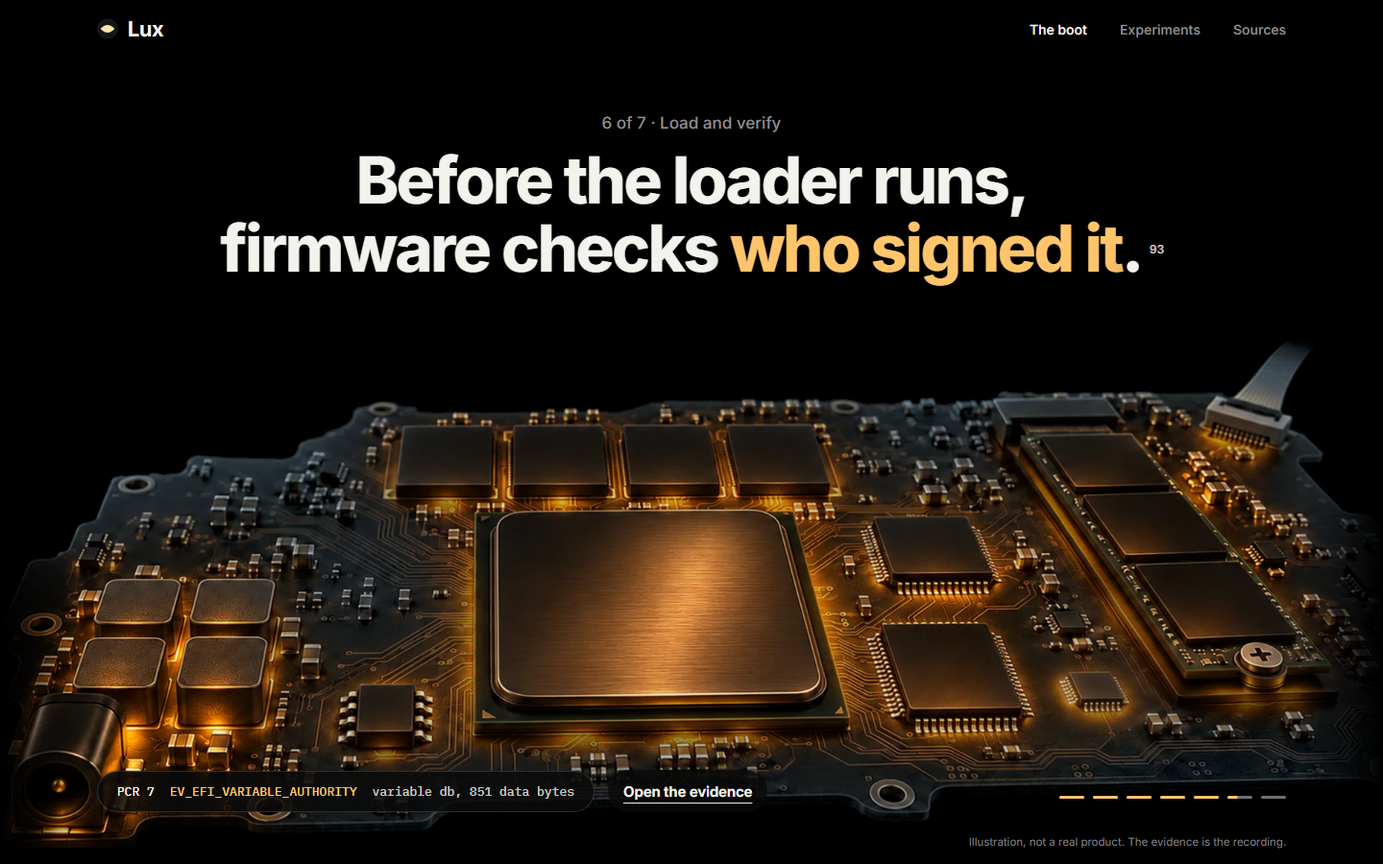
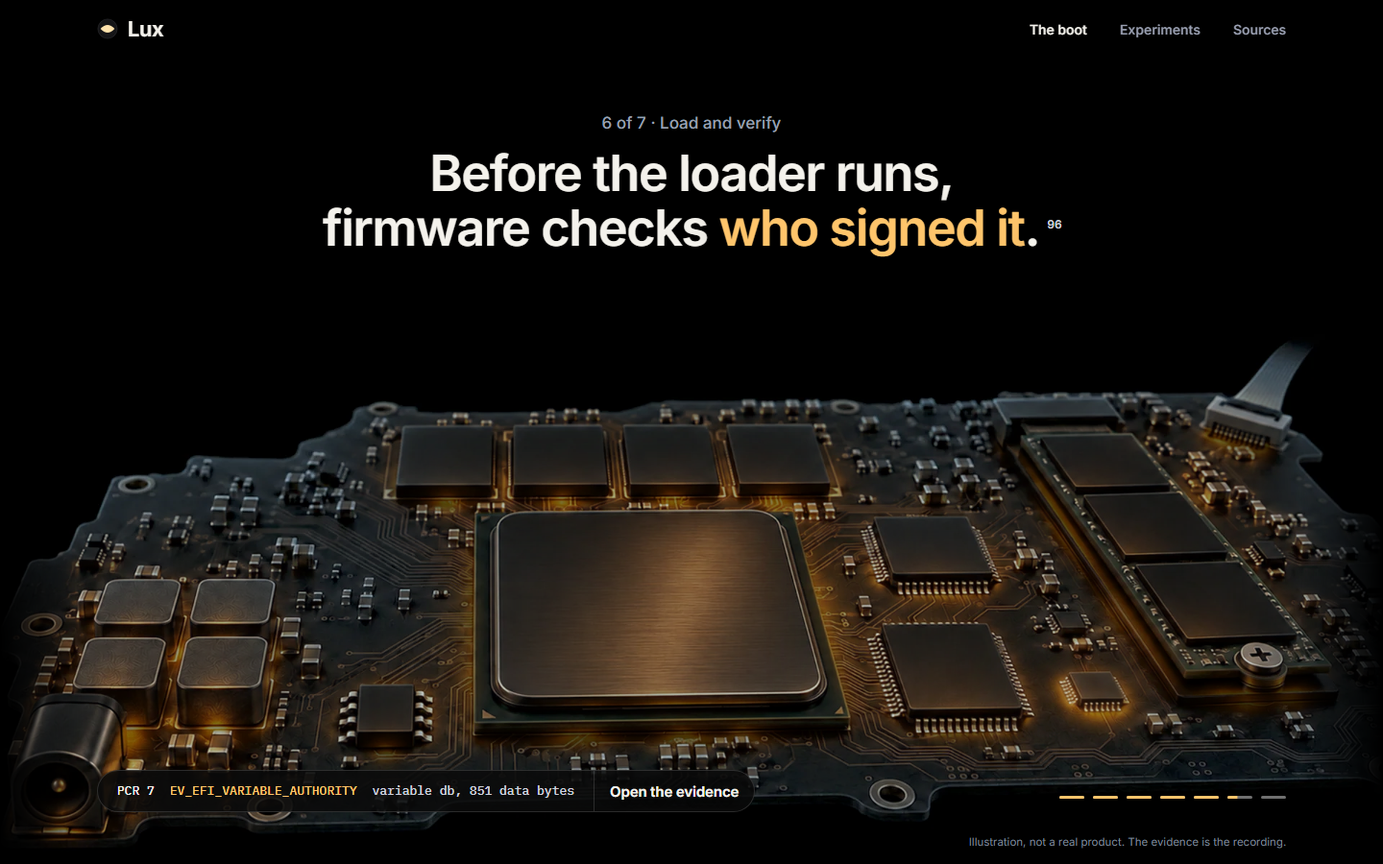
docs: bring the test counts, the verification record and the three screenshots in line with the calmer type, the rationed light, the new ending and the values read from the raw event log

diff --git a/docs/VERIFICATION.md b/docs/VERIFICATION.md
@@ -58,21 +58,21 @@ The untested parts of rows 1, 2, 5, 7 and 8 are carried into the limits of the R
 |---|---|---|
 | **Recorder: unit tests, tests on fixtures of two real boots, and whole runs through a fake machine** | The rules the question depends on are pure functions over bytes and documents, so most faults can be caught where one function is wrong, with no virtual machine | 268 |
 | **Recorder: the content check's own tests** | A check that cannot fail proves nothing, so each rule is broken once on small content | 48 |
-| **Recorder: tests of the committed evidence** (recordings, comparisons, scores, predictions) | The published files, not only the code, must still follow from each other | 43 |
+| **Recorder: tests of the committed evidence** (recordings, comparisons, scores, predictions) | The published files, not only the code, must still follow from each other | 48 |
 | **Recorder: integration with real `git`** | The prediction gate sends real git commands; a fake only proves the answers | 3 |
 | **Recorder: integration with a real virtual machine** | Only a real boot shows that a normal run repeats on this machine | 6, skipped unless `LUX_VM_TESTS=1` |
-| **Site: unit tests of the model** (steps, experiment state, addresses, panel keys, the mark) | Complete state per step and the state of an experiment are plain data, testable without drawing anything | 88 |
+| **Site: unit tests of the model** (steps, experiment state, addresses, panel keys, the mark) | Complete state per step and the state of an experiment are plain data, testable without drawing anything | 90 |
 | **Site: the content and the recordings as the site loads them** | Guards the site's own reading of the files | 45 |
 | **Site: pages rendered to HTML, with no browser**, and the stylesheet read as text | Proves that a page shows what the content and the files hold, and no more | 198 |
 | **Browser-level, automated** | None. Motion, layout and focus need a real window; they were checked by a scripted drive and by eye, outside the test suite | 0 |
 
-Recorder total 368 (25 in `test_capture.py`, 48 in `test_check_content.py`, 28 in `test_committed_recordings.py`, 41 in `test_compare_prediction.py`, 65 in `test_counted_set.py`, 32 in `test_eventlog_gate.py`, 6 in `test_integration_vm.py`, 65 in `test_session_runner.py`, 50 in `test_staging.py`, 8 in `test_story_and_repository.py`). The split of the first three rows is by test class: `test_check_content.py` is the second row; `test_committed_recordings.py` and the classes `CommittedPredictions` and `TwoEntryNormalRuns` of `test_counted_set.py` are the third. Site total 331 in nine files.
+Recorder total 373 (25 in `test_capture.py`, 48 in `test_check_content.py`, 28 in `test_committed_recordings.py`, 41 in `test_compare_prediction.py`, 65 in `test_counted_set.py`, 32 in `test_eventlog_gate.py`, 6 in `test_integration_vm.py`, 5 in `test_recorded_bytes.py`, 65 in `test_session_runner.py`, 50 in `test_staging.py`, 8 in `test_story_and_repository.py`). The split of the first three rows is by test class: `test_check_content.py` is the second row; `test_committed_recordings.py`, `test_recorded_bytes.py` and the classes `CommittedPredictions` and `TwoEntryNormalRuns` of `test_counted_set.py` are the third. Site total 333 in nine files.
 
 Coverage was not measured as a number. The mutation checks do the work a coverage figure cannot: nine rules were broken on purpose on the final code, seven in the recorder, one in the content check and one in the site, and each break failed at least two tests (`MUTATION_CHECKS.md`).
 
-### Last results
+### Results at the commit that added this file
 
-Run on the commit that adds this file, on one machine: Windows 11 with Python 3.12.10 and Node.js 24.22.0 (npm 11.19.1); Ubuntu 24.04 under WSL 2 with Python 3.12.3, QEMU 8.2.2, OVMF 2024.02, swtpm 0.7.3.
+Run on that commit, on one machine: Windows 11 with Python 3.12.10 and Node.js 24.22.0 (npm 11.19.1); Ubuntu 24.04 under WSL 2 with Python 3.12.3, QEMU 8.2.2, OVMF 2024.02, swtpm 0.7.3.
 
 | Check | Command | Summary line |
 |---|---|---|
@@ -84,7 +84,21 @@ Run on the commit that adds this file, on one machine: Windows 11 with Python 3.
 | Site build | `npm run build` | type check passed, `built in` under one second, one warning: a chunk larger than 500 kB |
 | Site format | `npm run format:check` | `All matched files use Prettier code style!` |
 
-The run with the virtual machine boots the plain normal run twice and the two-entry normal run once, and took about two minutes for the whole suite. No counted experiment and no pilot was booted for this document. The same commands were run again after the last change to the documents and gave the same summary lines, apart from the times.
+The run with the virtual machine boots the plain normal run twice and the two-entry normal run once, and took about two minutes for the whole suite. No counted experiment and no pilot was booted for this document. The same commands were run again after the last change to the documents of that day and gave the same summary lines, apart from the times. The counts in this table are those of that commit: five recorder tests, two site tests and three claims were added afterwards.
+
+### Last results
+
+Run after the last change to the site and the content (section 9), on the same machine, on Windows only:
+
+| Check | Command | Summary line |
+|---|---|---|
+| Recorder unit tests, Windows | `python -m unittest discover -s recorder/tests -t .` | `Ran 373 tests in 26.215s`, `OK (skipped=6)` |
+| Content check | `python scripts/check_content.py` | `content check: 5 files, 28 screens, 357 claims, 85 claims uefi-required, 28 claims uefi-platform, 21 claims tcg-unread, 38 claims this-firmware, 170 claims recording, 15 claims general, 14 recordings, 59 glossary entries`, `content check: passed, no problems` |
+| Site tests | `npm test` | `Test Files  9 passed (9)`, `Tests  333 passed (333)` |
+| Site build | `npm run build` | type check passed, one script of 939.01 kB (gzip 186.12 kB), `built in` under one second, one warning: a chunk larger than 500 kB |
+| Site format | `npm run format:check` | `All matched files use Prettier code style!` |
+
+**Not repeated after that change:** the recorder's unit tests under WSL and the suite with the virtual machine. The five tests added since read committed files only and boot nothing, so the README's expected `Ran 373 tests` for the suite with the virtual machine is the same test discovery with the six booting tests included; it was not run. The fresh-clone runs (`FRESH_CLONE_RUN.md`) and the mutation checks (`MUTATION_CHECKS.md`) were made before that change and were not repeated; each file states the counts of its own commit.
 
 ## 4. What was looked at, and what was only checked by script
 
@@ -92,6 +106,7 @@ The run with the virtual machine boots the plain normal run twice and the two-en
 |---|---|---|
 | All 22 steps of the story, the experiments and sources pages section by section, the strip of seven stops, the still page, and six evidence panels, at 1440 x 900; the steps, the pages and the strip also at 390 x 844 | Screenshots of the running site in a headless Chromium-based browser, read one by one. The phone width was taken through a frame of that width | **By eye**, on screenshots. Three of them are in `docs/images/` |
 | The same 22 steps, both pages from top to bottom, and the evidence panel of every step, in true windows of 375 x 812 and 430 x 932; the navigation alone at twelve widths from 280 to 761 px; twelve steps at 375 x 667 | A headless Chromium-based browser driven through its debugging port, with the window size set there and no frame. The script also measured each page for content wider than the window and found none | **By eye**, on screenshots, and by measurement. The script and the screenshots are not in the repository |
+| After the last change to the look (section 9): all 22 steps, the first screen of the experiments and sources pages and of the still page at 1440 x 900; steps 0, 12 and 21 in a true window of 390 x 844; the last step at 1180 x 820; the experiment screen of the experiments page | Screenshots of the running site in a headless Chromium-based browser, read one by one; the narrow and the 1180 x 820 windows through the debugging port, which also measured each page for content wider than the window and found none | **By eye**, on screenshots. Three of them replace the pictures in `docs/images/` |
 | Brightness of the machine before power | Mean luminance of regions of the screenshots and of the pictures, printed by `site/tools/make_assets.py` and recorded in `site/ASSETS.md` | By script, after a judgement by eye that the first version was too dark |
 | Scrolling: Space and Shift with Space, Page Down and Page Up through all 22 steps, a jump to `#step-12`, the strip after the last step, reduced motion giving the still page | The running site driven in real time through the browser's debugging port | **By script only** |
 | The evidence panel: Enter and Space open it, Tab stays inside it from a control and from the claims heading, Escape closes it, focus returns to the opener, the page does not move | The same scripted drive | **By script only** |
@@ -136,12 +151,14 @@ These were found by review, by a test or by driving the site. None was planted. 
 | 17 | "Continue in Nox" was a link that led nowhere | Review | The label is a link only when the content holds an `https://` address, and the content check refuses anything else; the address is now set | A20 |
 | 18 | A prediction's panel showed "Written 2026-11-15" beside a run recorded on 2026-11-14 (UTC), which reads as if the run came first. The prediction's date is a local calendar date, eight hours ahead of UTC | A second check of the results | The panel says that the date is a local one and names the commit the run was scored under; `RESULTS.md` puts every time on one clock | `Pages.test.tsx`, "says that a prediction's date is a local one, and names the commit it was scored under" |
 | 19 | The two headline numbers stood on the experiments page with their caveat one press away | Review of the page against the README | The sentence that the rows are not independent stands directly under the numbers, from the content | A16 |
+| 20 | The larger laptop made for the last screen was also drawn on the experiment screen and the screen before the last, where the light under its keys is not turned down. On the experiment screen its lid sat 11 px under the pilot label and its base ran 9 px into a two-line evidence line. In a window of about 1180 x 820 the larger laptop also touched a two-line evidence line on the last screen | Review of screenshots | The laptop is enlarged on the last screen only, and only in a window at least three wide to two high and 800 px high (commit `2ebfe4b`) | No test: a judgement of the eye. Screenshots of steps 15, 20 and 21 at 1440 x 900 and of step 21 at 1180 x 820 were read after the fix |
+| 21 | When stop 5 began to state the stored boot order from the raw log (0000 first), the limit "why option 0000 was not started" was dropped, although the log still does not show why the console names 0001. The same stop said "the recording shows" bytes that only the raw log holds | Review of the facts against the raw log | The limit is stated again in the form the log supports, and the sentence names the raw event log (commit `cf1fc46`) | Read by hand. `test_recorded_bytes.py` guards the byte values, not the wording of a limit |
 
 ### Open, known, not fixed
 
 | # | What | Why it is open |
 |---|---|---|
-| O1 | The site is one script of 936 kB, and it grows with every recording | Splitting it by page means making the one synchronous door to the recordings asynchronous, a change of structure. Left with its measurement |
+| O1 | The site is one script of 939 kB, and it grows with every recording | Splitting it by page means making the one synchronous door to the recordings asynchronous, a change of structure. Left with its measurement |
 | O2 | A few status sentences in `content/experiments.json` repeat what the files show (for example the status of a counted card) | They are true and checked by reading. Nothing fails if one goes stale |
 | O3 | Process cleanup when QEMU is killed from outside is not covered by a unit test | It needs real processes. The integration test and `scripts/check-clean.sh` cover it |
 | O4 | `recorder/pe.py` names Microsoft's Authenticode format document as its method reference, while the site lists that document as not read | The digest is confirmed against what the firmware measured, and no claim on the site cites the document. The README says both |
@@ -208,3 +225,33 @@ What the three runs together still do not show:
 - **Not the hosted workflow.**
 
 An earlier clone at commit `dc52dbe` ran only the test commands on Windows, with the installed packages copied from the working tree. The three runs above replace it.
+
+## 9. The last change to the look and to stops 4 to 6
+
+Made on 2026-11-15 in nine commits, `5cf4d0a` to `cf1fc46`, after every run and check described above. No experiment was run again, and no recording, prediction or score was touched.
+
+**What changed in the content.** Stops 4, 5 and 6 state values that the summary in `recording.json` does not hold and the raw event log beside it does: the `SecureBoot` variable is one byte, `01`; `BootOrder` is `00 00 01 00`; the value of `Boot0000` begins `09 01 00 00` and carries the text `UiApp`; the value of `Boot0001` begins `01 00 00 00` and carries the disk's name; and the 879 bytes of the `db` variable are 28 bytes followed, byte for byte, by the 851 bytes of the key record. `recorder/tests/test_recorded_bytes.py` (5 tests) reads each value from `recordings/normal-1/eventlog.bin` with the recorder's own parser and compares it with the sentence in the content. No sentence was added about what a specification requires, what the 28 bytes are, or why the console names option 0001 when the stored order lists 0000 first; stop 5 lists that last point as not shown.
+
+**What changed in the look.**
+
+| Change | Where |
+|---|---|
+| A step's statement is at most 52 px at weight 600 (was 68 px at 750), the title at most 92 px at weight 600; the three greys carry a cool tint | `site/src/styles/lux.css` |
+| A lit part that a board step is not about rests at half its light, so the part the step is about is the warm point. Once every part is lit (steps 18 and 19) nothing rests | `layersAt` in `site/src/model/scene.ts`, two tests in `scene.test.ts` |
+| On the last screen, in a window at least 800 px high and three wide to two high, the laptop is drawn at 660 x 495 at 1440 x 900 (was 535 x 401); as its screen lights, a shade from the hinge down turns down the light under the keys; "Continue in Nox" is a filled button | `lux.css`, one attribute in `components/Stage.tsx` |
+| A step's statement arrives sooner; the rail and the foot no longer fade out at each step change | `lux.css` |
+| The opening's laptop stands lower under the navigation | `lux.css` |
+| In a window wider than 760 px the evidence line and "Open the evidence" form one capsule | `lux.css` |
+
+**Checked.** The checks of section 3, "Last results". The site's test that nothing but `transform` and `opacity` moves still passes, and no existing test was edited. The screenshots of section 4, first row. During the change, steps 0, 2, 6, 12, 15, 19, 20 and 21 were also read at 1280 x 720 after each commit; in a review after it, the last step at 1366 x 768 and 1920 x 1080.
+
+**Not verified, or known and left.**
+
+- **Motion was not seen by eye.** That the statement is readable sooner (about 0.6 s after a step change, before about 1.15 s) was measured by reading the computed opacity at sampled times in a headless browser. Frame rate was not measured. A person has still not scrolled the story by hand (section 4).
+- **For about 0.4 s after a step change** the evidence line and the control still seen are those of the step being left, and that control does not respond; the control of the new step is in place under it. Keyboard reach and the return of focus were not driven again in a browser; the panel's code and its tests are unchanged.
+- **Under 800 px of height the last screen is calmer but not larger**: at 1280 x 720 its laptop is 428 x 321, smaller than the opening's. The same holds in a window narrower than three to two.
+- **On steps 6, 7, 10, 12 and 13 the part the step is about is the small security chip**, so the warm point is small and the board reads as evenly dim. Steps 18 and 19 are at full light by decision, so they have no single warm point.
+- **The shade also darkens the metal deck** of the laptop on the last screen. Whether that reads as too dark is a judgement nobody but the builder has made.
+- **The section titles of the experiments and sources pages and the title of the evidence panel** keep their heavier weight; only the statements changed.
+- **One claim at stop 5** names the first four bytes of a boot option "attributes" and its text "description" under the basis "recording". The numbers are in the bytes; the two names are a reading of the bytes against the UEFI layout, for which no citation was added. The sentence says "this page calls".
+- **The suite with the virtual machine, the unit tests under WSL, the fresh-clone runs and the mutation checks were not repeated** after this change (section 3).

diff --git a/README.md b/README.md
@@ -36,7 +36,8 @@ Read the numbers with these beside them:
 | Each prediction came before its run | Each counted recording stores the path, hash and commit of the prediction it ran under, and the recorder refuses a counted run whose prediction file is not byte for byte the committed one. The prediction commits are ancestors of the recording commits | `recordings/<run>/recording.json` field `provenance.prediction`, `docs/RESULTS.md` "How the runs were made" |
 | The normal run repeats | Each of the three normal runs was recorded twice, and each pair is identical on every compared field | `recordings/comparisons/*-1_vs_*-2.json` |
 | A recording follows from its boot | Three readings of each boot (the firmware's event log, the TPM's own log, the registers read from the TPM) agree on all 24 registers in four hash banks, in all 14 recordings. A test replays every committed event log | field `gate` of each recording, `eventlog.bin` beside it |
-| Every line the site quotes is in a recording | A check compares each evidence line with the field it names, letter for letter, and fails if a claim has no basis or a UEFI basis has no full citation | `scripts/check_content.py`: 354 claims, 28 screens |
+| Every line the site quotes is in a recording | A check compares each evidence line with the field it names, letter for letter, and fails if a claim has no basis or a UEFI basis has no full citation | `scripts/check_content.py`: 357 claims, 28 screens |
+| Every byte value the story states is in the raw event log | The story states a few values that `recording.json` does not hold (it keeps each record's size and digest): the Secure Boot switch, the stored boot order, the first bytes and the names of the two boot options, and that the 851 bytes of the key record are the end of the 879 bytes of the allowed list. A test reads each from the committed `eventlog.bin` and compares it with the sentence in the content | `recorder/tests/test_recorded_bytes.py`, `recordings/normal-1/eventlog.bin` |
 | The pilots are what they are said to be | Four recordings and their comparisons with the normal run, described one by one | `docs/PILOTS.md` |
 
 What one changed byte looks like on the site. This run is a pilot:
@@ -124,7 +125,7 @@ npm run dev -- --port 5191
 
 In the scrolled story one press of Space or Page Down is one step on, and Shift with Space or Page Up one step back. The first thing the keyboard reaches is a link to `/?static`, the whole story as a plain page.
 
-The first load is about 0.7 MB by the sizes of the built files: one script of 936 kB (186 kB compressed), one stylesheet, two font files and the pictures. That figure assumes a host that compresses text and a browser that fetches only the two Latin font files of the 17 the build writes; it was not measured in a browser. About two thirds of the script is the recordings and the content.
+The first load is about 0.7 MB by the sizes of the built files: one script of 939 kB (186 kB compressed), one stylesheet, two font files and the pictures. That figure assumes a host that compresses text and a browser that fetches only the two Latin font files of the 17 the build writes; it was not measured in a browser. About two thirds of the script is the recordings and the content.
 
 ### Hosting
 
@@ -304,7 +305,7 @@ python3 -m unittest discover -s recorder/tests -t .
 ```
 
 ```
-Ran 368 tests in 36.074s
+Ran 373 tests in 26.215s
 
 OK (skipped=6)
 ```
@@ -315,7 +316,7 @@ The time varies. The six skipped tests boot the virtual machine. To include them
 bash scripts/test-with-vm.sh
 ```
 
-It boots the normal run twice and the normal run with two boot entries once, asserts that the agreement gate passed, that the two runs are equal on every compared field, that a fresh run equals the committed `normal-1` and `normal-two-same-1`, and that nothing is left running. It never boots a changed run, and takes one to two minutes. Expected: `Ran 368 tests`, `OK`, then `virtual machines running: none`, `software TPMs running: none` and `guest memory files: none`.
+It boots the normal run twice and the normal run with two boot entries once, asserts that the agreement gate passed, that the two runs are equal on every compared field, that a fresh run equals the committed `normal-1` and `normal-two-same-1`, and that nothing is left running. It never boots a changed run, and takes one to two minutes. Expected: `Ran 373 tests`, `OK`, then `virtual machines running: none`, `software TPMs running: none` and `guest memory files: none`.
 
 The content check, from the repository root:
 
@@ -324,7 +325,7 @@ python3 scripts/check_content.py
 ```
 
 ```
-content check: 5 files, 28 screens, 354 claims, 85 claims uefi-required, 28 claims uefi-platform, 21 claims tcg-unread, 38 claims this-firmware, 167 claims recording, 15 claims general, 14 recordings, 59 glossary entries
+content check: 5 files, 28 screens, 357 claims, 85 claims uefi-required, 28 claims uefi-platform, 21 claims tcg-unread, 38 claims this-firmware, 170 claims recording, 15 claims general, 14 recordings, 59 glossary entries
 content check: passed, no problems
 ```
 
@@ -338,7 +339,7 @@ npm run format:check
 
 ```
  Test Files  9 passed (9)
-      Tests  331 passed (331)
+      Tests  333 passed (333)
 ```
 
 `npm run build` prints a line that contains `built in`, and a warning that one chunk is larger than 500 kB. `npm run format:check` ends with `All matched files use Prettier code style!`.

diff --git a/site/ASSETS.md b/site/ASSETS.md
@@ -48,11 +48,11 @@ The lit board is not changed.
 
 No stop has a picture file of its own. The page draws `board-dark.webp` and stacks `board-awake.webp` over it once per part, each copy cut out by that part's mask. A step of the story sets which copies are seen, and the stylesheet fades them in one after another, so light spreads across the board. Because every stop is made from the same two pictures, a part never moves between stops.
 
-Which parts are lit at a stop is not decided here. It is read from the `picture` field of each screen in `content/`. The same field can name the lit parts a screen is about; those get a second copy of the same cut-out added on top, which makes them a little brighter. Once every part is lit, the ground between the parts lights too, through the mask of the whole board.
+Which parts are lit at a stop is not decided here. It is read from the `picture` field of each screen in `content/`. The same field can name the lit parts a screen is about; those get a second copy of the same cut-out added on top, which makes them a little brighter, and the other lit parts are then drawn at half their light. Once every part is lit, the ground between the parts lights too, through the mask of the whole board.
 
 The strip after the story draws the same board seven times, small, each with the parts lit that its stop ends with. A small picture of the whole board looks alike at every stop, so each is drawn close on the parts its stop is about, and the last, where every part is lit, shows the whole board. The two laptops of the experiments page are the pictures with the screen lit and with the inside awake, side by side.
 
-At the pilot screen and at the end of the story the board gives way to the laptop with its inside awake, and on the last screen the picture with the lit screen fades in over it. The three laptop pictures are cut alike, so nothing moves when one fades into the next.
+At the pilot screen and at the end of the story the board gives way to the laptop with its inside awake, and on the last screen the picture with the lit screen fades in over it. The light under the keys is part of both pictures, so on the last screen the stylesheet lays a shade over the lower part of the picture, from the hinge down, as the screen lights; no picture file was changed for it. The three laptop pictures are cut alike, so nothing moves when one fades into the next.
 
 ## Fonts
 

diff --git a/docs/MUTATION_CHECKS.md b/docs/MUTATION_CHECKS.md
@@ -2,7 +2,7 @@
 
 A test suite that passes proves little unless it can also fail. For nine rules the project's question depends on, the rule was broken on purpose, the full suite was run, and the rule was restored. Each time at least one test had to fail. All nine did.
 
-Checks 1 to 7 break rules of the recorder, check 8 a rule of the content check, and check 9 a rule of the site. All nine were made on the final code. For checks 1 to 8 the recorder's suite before and after each was `Ran 368 tests`, `OK (skipped=6)`; for check 9 the site's suite was `Tests  329 passed (329)`. The skipped tests are the ones that boot the virtual machine; they were not part of these checks. Checks 1 to 7 had been made before on earlier revisions (suites of 231 and 356 tests), where each also failed; the lists below are from the repeat on the final code.
+Checks 1 to 7 break rules of the recorder, check 8 a rule of the content check, and check 9 a rule of the site. All nine were made on the final code. For checks 1 to 8 the recorder's suite before and after each was `Ran 368 tests`, `OK (skipped=6)`; for check 9 the site's suite was `Tests  329 passed (329)`. The skipped tests are the ones that boot the virtual machine; they were not part of these checks. Tests were added after these checks (five in the recorder, giving 373, and in the site, giving 333); none of the nine rules was changed, and the checks were not repeated. Checks 1 to 7 had been made before on earlier revisions (suites of 231 and 356 tests), where each also failed; the lists below are from the repeat on the final code.
 
 ## 1. The extend order in the replay
 

diff --git a/docs/ENGINEERING.md b/docs/ENGINEERING.md
@@ -171,6 +171,8 @@ Where the record came from: event 25 of `normal-1` was written by the firmware i
 
 What guards this path: the content check fails if `variable db, 851 data bytes` is not exactly `events[24].summary` of that recording; the site's own `screenProblems` fails a test if the line is not that event's summary; and a site test renders the panel of every screen of the story (21) and requires every claim, term, line, digest and register the content names. The seven screens of the experiments and sources pages have panel tests for selected screens only.
 
+A recording keeps each record's summary, size and digest, not its value. Where the story states a value (the `SecureBoot` byte, the bytes of `BootOrder`, the first bytes and names of the two boot options, and that the 851 bytes of this record are the end of the 879 bytes of the `db` variable), the claim's `field` names `eventlog.bin` beside the recording, and `recorder/tests/test_recorded_bytes.py` reads the value from that file with the recorder's parser and compares it with the sentence. The content check does not open `eventlog.bin`, so that test is the only guard of those sentences.
+
 ### 3.2 A counted experiment, from its prediction to the score on the page
 
 The experiment traced here is `signature-byte`: one byte inside the signature value of the loader is changed, with Secure Boot on.

diff --git a/docs/FRESH_CLONE_RUN.md b/docs/FRESH_CLONE_RUN.md
@@ -2,6 +2,8 @@
 
 The repository was cloned into a new, empty folder outside the project at commit `b3222a5`, and `README.md` was followed in its own order, typing what it says. This file records what was typed, what came back, and every place where the README was wrong, incomplete, ambiguous or assumed something it does not state. Nothing in the repository was changed to make a step pass. Sections 1 to 5 are that run as it was. Section 6 records what was corrected in the README afterwards and which steps were then typed again in a second new clone. Section 7 records a third new clone, at commit `2d2c5ba`, in which `npm ci` was run and the site's commands and the checks that boot nothing were typed in the clone itself.
 
+The test counts below (368 recorder tests, 329 and 331 site tests, 354 claims) are those of the commit each run was made at. Five recorder tests, two site tests and three claims were added later the same day; the runs were not repeated after that, and `VERIFICATION.md` section 3 gives the counts of the present code.
+
 All three runs were made on 2026-11-15. No counted experiment was booted. The first and the third clone and both work directories were deleted afterwards. The second clone is a folder outside the repository that nothing depends on.
 
 ## 1. Result in one table
